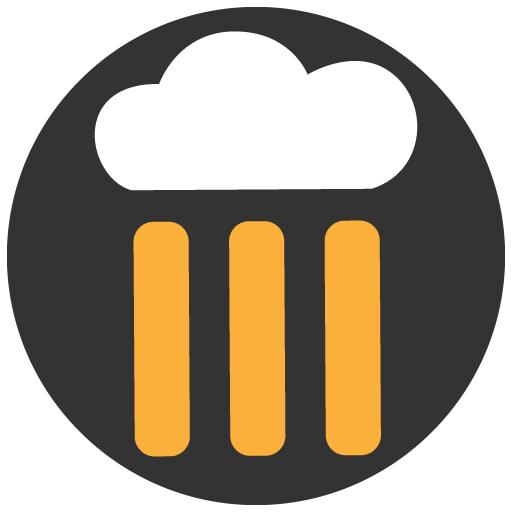
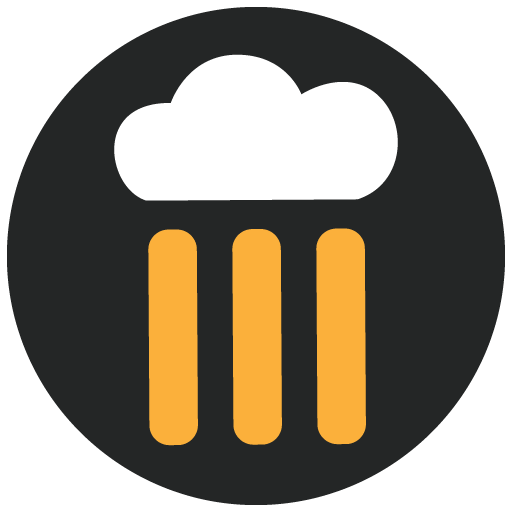
breweries added

Changed region(s): [[0.1875, 0.0625, 0.8125, 0.9062]]

diff --git a/src/App.js b/src/App.js
@@ -17,6 +17,8 @@ import Recommended from './pages/recommended/Recommended';
 import NotFound from './pages/not-found/NotFound';
 import Beer from './pages/beer/Beer';
 import Play from './pages/play/Play';
+import Breweries from './pages/breweries/Breweries';
+// import Brewery from './pages/brewery/Brewery';
 
 import { library } from '@fortawesome/fontawesome-svg-core';
 import { faPlayCircle } from '@fortawesome/free-solid-svg-icons';
@@ -26,8 +28,9 @@ import { faStar } from '@fortawesome/free-solid-svg-icons';
 import { faThumbsUp } from '@fortawesome/free-solid-svg-icons';
 import { faUser } from '@fortawesome/free-solid-svg-icons';
 import { faBars } from '@fortawesome/free-solid-svg-icons';
+import { faBeer } from '@fortawesome/free-solid-svg-icons';
 
-library.add(faPlayCircle, faSearch, faHeart, faStar, faThumbsUp, faUser, faBars);
+library.add(faPlayCircle, faSearch, faHeart, faStar, faThumbsUp, faUser, faBars, faBeer);
 
 const App = () => {
   const node = useRef();
@@ -79,6 +82,8 @@ const App = () => {
            <PrivateRoute path="/favorites" component={Favorites} />
            <PrivateRoute path="/recommended" component={Recommended} />
            <PrivateRoute path="/beers/:id" component={Beer} />
+           <PrivateRoute path="/breweries" component={Breweries} />
+           {/* <PrivateRoute path="/breweries/:id" component={Brewery} /> */}
            <PrivateRoute path="/play" component={Play} />
            <Route component={NotFound} />
          </Switch>

diff --git a/src/pages/breweries/Breweries.js b/src/pages/breweries/Breweries.js
@@ -1,0 +1,37 @@
+import React, {useEffect, useState} from 'react';
+// import {Link} from 'react-router-dom';
+import { beerService } from '../../lib/beer-service';
+
+const Breweries = () => {
+  // const [breweriesData, setBreweriesData] = useState([]);
+  // const [isLoading, setIsLoading] = useState(true);
+
+  // console.log(breweriesData);
+  // console.log(isLoading);
+
+  useEffect(() => {
+    // let ignore = false;
+
+    const getBreweries = async () => await beerService.getBreweries()
+    .then(data => {
+      console.log(data)
+    })
+    // .then(data => {if (!ignore) {
+      // setBreweriesData(data);
+      // setIsLoading(false);
+    // }})
+    .catch(error => console.error('Error ingen data'));
+    getBreweries();
+
+    // return () => {ignore = true}
+  }, []);
+
+  return (
+    <div>
+      <p>Breweries</p>
+      {/* <Link to={`/breweries/:${brewery.id}`} /> */}
+    </div>
+  )
+}
+
+export default Breweries;

diff --git a/src/pages/home/Home.js b/src/pages/home/Home.js
@@ -33,6 +33,12 @@ const Home = () => {
           iconName='thumbs-up' 
           iconClass='fontawesome' />
         <HomeItem 
+          link='/breweries' 
+          headerText='Breweries' 
+          description='Learn from the best breweries' 
+          iconName='beer' 
+          iconClass='fontawesome' />
+        <HomeItem 
           link='/play' 
           headerText='Play' 
           description='Your beer personality' 

diff --git a/src/lib/beer-service.js b/src/lib/beer-service.js
@@ -32,6 +32,12 @@ class BeerService {
     .then(({data}) => data)
     .catch(error => console.error('Error'));
   }
+
+  getBreweries() {
+    return this.beer.get('/beers/breweries')
+    .then(({data}) => data)
+    .catch(error => console.error('Error'));
+  }
    
 }
 

diff --git a/src/pages/beers/Beers.js b/src/pages/beers/Beers.js
@@ -10,6 +10,8 @@ const Beers = () => {
   const [inputValue, setInputValue] = useState('');
   const [beersData, setBeersData] = useState([]);
   const [isLoading, setIsLoading] = useState(true);
+  
+  console.log(beersData);
 
   useEffect(() => {
     let ignore = false;

diff --git a/src/pages/brewery/Brewery.js b/src/pages/brewery/Brewery.js
@@ -1,0 +1,11 @@
+import React from 'react';
+
+const Brewery = () => {
+  return (
+    <div>
+      <p>Brewery</p>
+    </div>
+  )
+}
+
+export default Brewery;

diff --git a/src/App.css b/src/App.css
@@ -131,8 +131,8 @@ p {
 }
 
 .logo-image {
-  width: 50px;
-  height: 50px;
+  width: 40px;
+  height: 40px;
   margin-right: 15px;
 }
 
